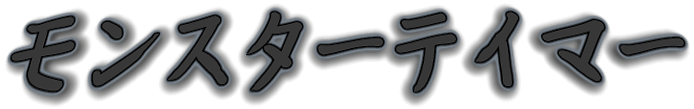
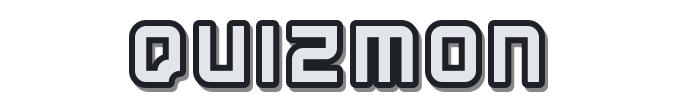
Speed up player, buff starter, and de-Japanify the title
- Player walks faster: Character gains a per-character _walkDuration
  (default 600ms/tile, NPCs unchanged); Player uses 400ms and scales its
  walk animation to match.
- Starter Noxini is much sturdier: HP 25→60, attack 5→10, level 5→8, and
  now knows two moves (slash + ice shard) instead of one, so it is no
  longer trivially defeated.
- Title art: replaced the Japanese "モンスターテイマー" text image with an
  English "QuizMon" title rendered in the game's own Kenney Future Narrow
  font, keeping the original size/outline style.

(Monster names already match the concept-sheet labels: Noxini … Sagevia.)

Claude-Session: https://claude.ai/code/session_01PJkDsWQ3JjjUsvYn6uRQqo

diff --git a/src/world/characters/character.js b/src/world/characters/character.js
@@ -61,6 +61,8 @@ export class Character {
   _spriteGridMovementStartedCallback;
   /** @protected @type {boolean} */
   _isRunning;
+  /** @protected @type {number} duration in ms for a single walking step (per tile) */
+  _walkDuration;
 
   /**
    * @param {CharacterConfig} config
@@ -74,6 +76,7 @@ export class Character {
     this._direction = config.direction;
     this._isMoving = false;
     this._isRunning = false;
+    this._walkDuration = 600;
     this._targetPosition = { ...config.position };
     this._previousTargetPosition = { ...config.position };
     this._idleFrameConfig = config.idleFrameConfig;
@@ -224,7 +227,7 @@ export class Character {
 
     this._scene.add.tween({
       delay: 0,
-      duration: this._isRunning ? 300 : 600,
+      duration: this._isRunning ? 300 : this._walkDuration,
       y: {
         from: this._phaserGameObject.y,
         start: this._phaserGameObject.y,

diff --git a/src/world/characters/player.js b/src/world/characters/player.js
@@ -41,6 +41,8 @@ export class Player extends Character {
     });
     this.#entranceLayer = config.entranceLayer;
     this.#enterEntranceCallback = config.enterEntranceCallback;
+    // player walks noticeably faster than the default 600ms/tile
+    this._walkDuration = 400;
   }
 
   /**
@@ -62,7 +64,8 @@ export class Player extends Character {
         ) {
           this._phaserGameObject.play(`PLAYER_${this._direction}`);
         }
-        this._phaserGameObject.anims.timeScale = this._isRunning ? 2 : 1;
+        // keep the walk cycle in sync with the faster movement (600ms is the base step)
+        this._phaserGameObject.anims.timeScale = this._isRunning ? 2 : 600 / this._walkDuration;
         break;
       case DIRECTION.NONE:
         break;